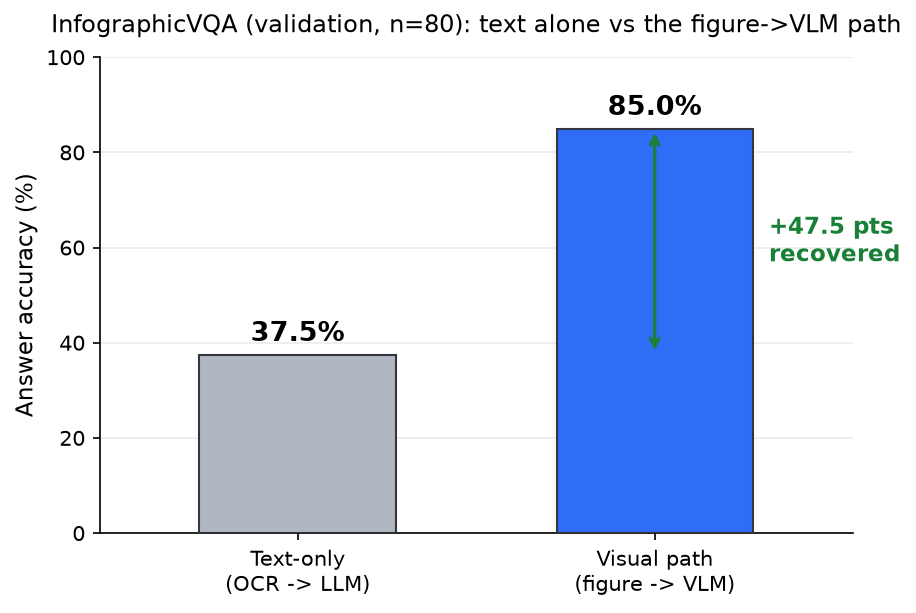
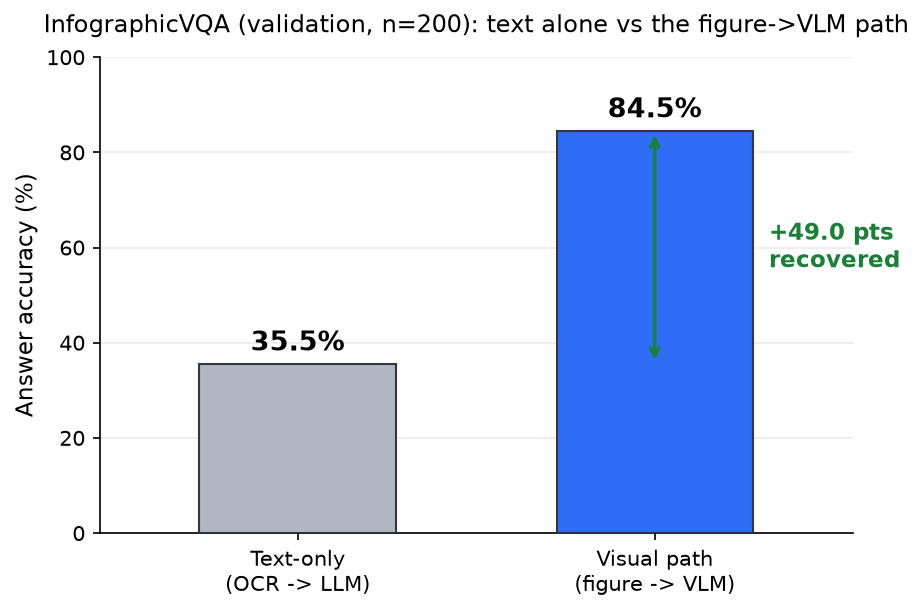
bench: scale mixed-modality benchmark to n=200 (figure->VLM +49.0 pts)
InfographicVQA (validation, 200 distinct infographics, real GT):
text-only 35.5% vs figure->VLM 84.5%, gap +49.0 points. Gap stable at
+47.5 to +49.0 across n=40/80/200. Updates chart, README, BENCHMARK.md,
mixed-modality.md, CHANGELOG.

diff --git a/docs/mixed-modality.md b/docs/mixed-modality.md
@@ -12,7 +12,7 @@ round-trip on a real multi-figure paper.
 
 ## Quantitative result: text-only vs the figure→VLM path
 
-On **InfographicVQA** (validation split, real ground-truth answers, 80 distinct infographics streamed
+On **InfographicVQA** (validation split, real ground-truth answers, 200 distinct infographics streamed
 from Hugging Face), we compare two ways of answering the same questions:
 
 - **Text-only** — the infographic's OCR text (Amazon Textract, shipped with the dataset) → LLM.
@@ -20,19 +20,19 @@ from Hugging Face), we compare two ways of answering the same questions:
 
 ![Text-only vs figure→VLM path](img/mixed_modality.png)
 
-| Path | Accuracy (n=80) |
-|------|-----------------|
-| Text-only (OCR → LLM) | **37.5%** (30/80) |
-| Visual (figure → VLM) | **85.0%** (68/80) |
-| **Gap recovered by the figure→VLM path** | **+47.5 points** |
+| Path | Accuracy (n=200) |
+|------|------------------|
+| Text-only (OCR → LLM) | **35.5%** (71/200) |
+| Visual (figure → VLM) | **84.5%** (169/200) |
+| **Gap recovered by the figure→VLM path** | **+49.0 points** |
 
-The gap held at **exactly +47.5 points at both n=40 and n=80** — stable, not a small-sample artifact.
-The lesson: even when text-only sees the *complete* OCR text, it answers barely a third of infographic
-questions, because the answers live in **layout, chart values, and spatial relationships** that raw text
-loses. Routing the figure region to a VLM is what recovers them — the reason prismdoc's `figures.*`
-sub-pipeline exists.
+The gap stayed within **+47.5 to +49.0 points across n=40, 80, and 200** — stable, not a small-sample
+artifact. The lesson: even when text-only sees the *complete* OCR text, it answers barely a third of
+infographic questions, because the answers live in **layout, chart values, and spatial relationships**
+that raw text loses. Routing the figure region to a VLM is what recovers them — the reason prismdoc's
+`figures.*` sub-pipeline exists.
 
-Reproduce: `python -m prismdoc.bench.infovqa --n 80 --out /tmp/infovqa` (see
+Reproduce: `python -m prismdoc.bench.infovqa --n 200 --out /tmp/infovqa` (see
 `src/prismdoc/bench/infovqa.py`). Scoring is a relaxed normalized match, not official ANLS — a coarse
 readout of the gap, not a leaderboard number. A single infographic is one image, so this isolates the
 **figure→VLM contribution**; the case study below shows the full route-and-merge on a multi-region
@@ -95,8 +95,8 @@ processor is swapped.
 
 ## Honest caveats
 
-- The **+47.5-point** number is on InfographicVQA with a **relaxed** match (normalized gold-in-prediction),
-  not official ANLS — read it as a coarse measure of the gap, not a leaderboard score.
+- The **+49.0-point** number (n=200) is on InfographicVQA with a **relaxed** match (normalized
+  gold-in-prediction), not official ANLS — read it as a coarse measure of the gap, not a leaderboard score.
 - A single infographic is one image, so the benchmark isolates the **figure→VLM path's** contribution.
   It does not, by itself, measure the full route-text-and-figures-separately-then-merge behavior — the
   case study above shows that on a multi-region document, but qualitatively.

diff --git a/docs/BENCHMARK.md b/docs/BENCHMARK.md
@@ -215,7 +215,7 @@ The cascade and OCR-recall sections above measure the **text** path. This sectio
 **figure→VLM** path adds on documents whose answers live inside images — the reason prismdoc routes
 figures out to a VLM and merges them back.
 
-**Dataset:** InfographicVQA (validation split, real ground-truth answers), 80 distinct infographics
+**Dataset:** InfographicVQA (validation split, real ground-truth answers), 200 distinct infographics
 streamed from the Hugging Face datasets-server (no full download, no RRC registration). Each item's own
 Amazon Textract OCR is used for the text-only baseline, so text-only sees *all* the text — just not the
 layout.
@@ -227,17 +227,17 @@ layout.
 
 ![Text-only vs figure→VLM path](img/mixed_modality.png)
 
-| Path | Accuracy (n=80) |
-|------|-----------------|
-| Text-only (OCR → LLM) | **37.5%** (30/80) |
-| Visual (figure → VLM) | **85.0%** (68/80) |
-| **Gap recovered by the figure→VLM path** | **+47.5 points** |
+| Path | Accuracy (n=200) |
+|------|------------------|
+| Text-only (OCR → LLM) | **35.5%** (71/200) |
+| Visual (figure → VLM) | **84.5%** (169/200) |
+| **Gap recovered by the figure→VLM path** | **+49.0 points** |
 
-The gap was **identical at n=40 and n=80** (+47.5 pts) — stable, not a small-sample fluke. Even with the
-full OCR text in hand, text-only answers barely a third of infographic questions; the answers depend on
-chart values and spatial layout that raw text drops.
+The gap stayed within **+47.5 to +49.0 pts across n=40, 80, and 200** — stable, not a small-sample fluke.
+Even with the full OCR text in hand, text-only answers barely a third of infographic questions; the
+answers depend on chart values and spatial layout that raw text drops.
 
-**Reproduce:** `python -m prismdoc.bench.infovqa --n 80 --out /tmp/infovqa` (source:
+**Reproduce:** `python -m prismdoc.bench.infovqa --n 200 --out /tmp/infovqa` (source:
 `src/prismdoc/bench/infovqa.py`).
 
 **Honest scope:** scoring is a **relaxed** normalized match (gold-in-prediction), not official ANLS — a

diff --git a/CHANGELOG.md b/CHANGELOG.md
@@ -6,10 +6,10 @@ while pre-1.0 (the public API may still change).
 ## Unreleased
 
 - **Mixed-modality benchmark** (`prismdoc.bench.infovqa`) — quantifies the figure→VLM path on
-  InfographicVQA (validation, 80 distinct infographics, real ground truth from Hugging Face). Answering
-  from OCR text alone scores **37.5%**; the figure→VLM path scores **85.0%** — a **+47.5-point** gap,
-  stable at both n=40 and n=80. Chart + methodology in `docs/BENCHMARK.md` and `docs/mixed-modality.md`;
-  reproduce with `python -m prismdoc.bench.infovqa`.
+  InfographicVQA (validation, 200 distinct infographics, real ground truth from Hugging Face). Answering
+  from OCR text alone scores **35.5%**; the figure→VLM path scores **84.5%** — a **+49.0-point** gap,
+  stable at +47.5 to +49.0 across n=40, 80, and 200. Chart + methodology in `docs/BENCHMARK.md` and
+  `docs/mixed-modality.md`; reproduce with `python -m prismdoc.bench.infovqa`.
 - **Hybrid deterministic + LLM extraction** (`HybridExtractStage`) — extract simple fields (regex /
   number / currency / date / email) deterministically for free — deterministic and cheap, though NOT a
   correctness guarantee (a regex can be consistently wrong); the LLM handles only the remaining fields.

diff --git a/README.md b/README.md
@@ -171,9 +171,9 @@ This is where a composed pipeline beats any single tool: on a mixed-modality doc
 diagrams), text-only extraction is blind to figures and whole-page VLM is costly/inconsistent — routing
 text→text and figure→VLM, then merging, gives the complete result.
 
-**Measured** on InfographicVQA (validation, 80 distinct infographics with ground truth): answering from
-the **OCR text alone scores 37.5%**, but the **figure→VLM path scores 85.0%** — a **+47.5-point** gap
-(stable at both n=40 and n=80) that only the visual route recovers.
+**Measured** on InfographicVQA (validation, 200 distinct infographics with ground truth): answering from
+the **OCR text alone scores 35.5%**, but the **figure→VLM path scores 84.5%** — a **+49.0-point** gap
+(stable at +47.5 to +49.0 across n=40, 80, and 200) that only the visual route recovers.
 
 ![Text-only vs figure→VLM path](docs/img/mixed_modality.png)
 